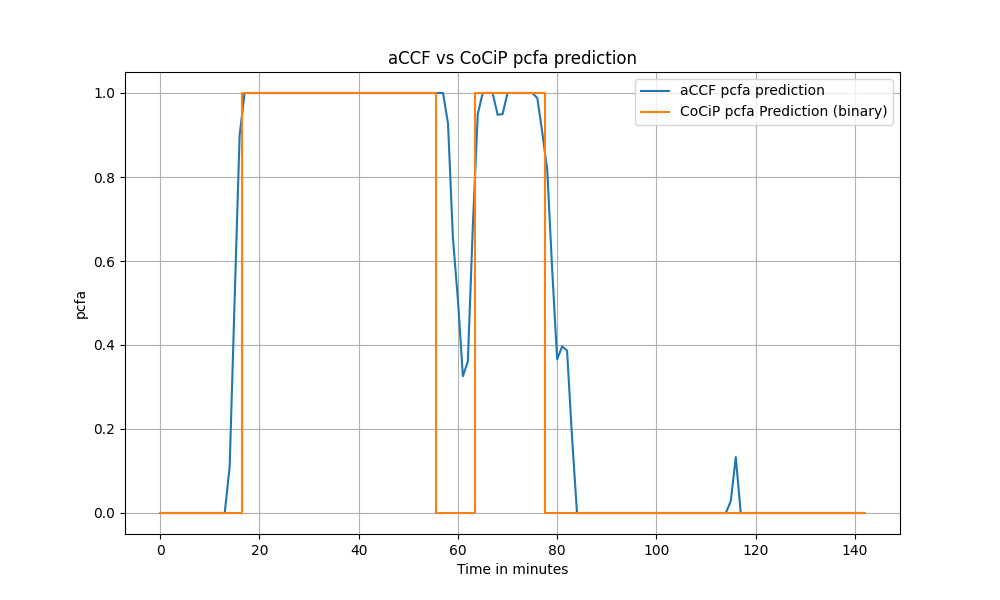
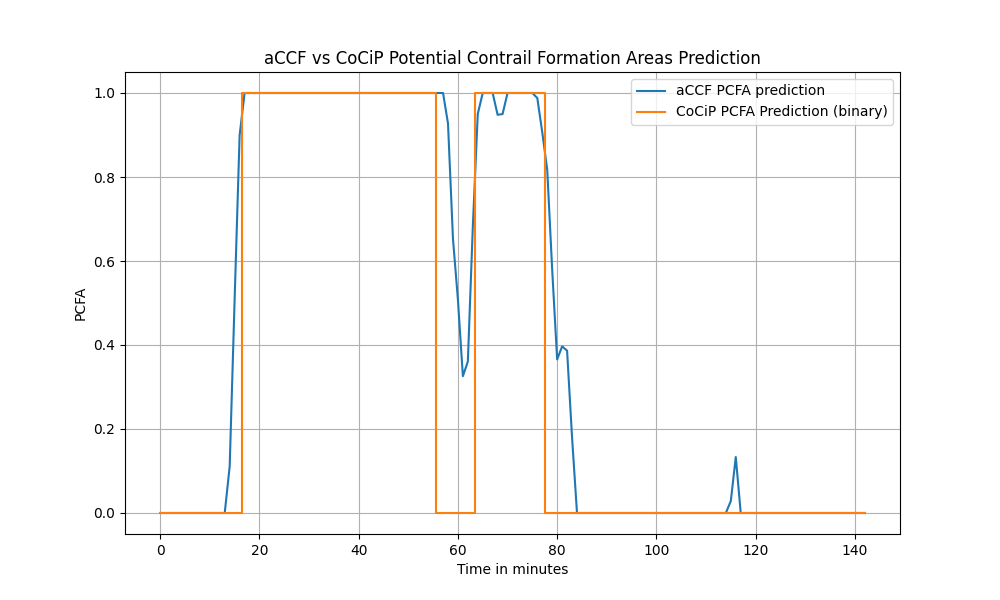
small changes

Changed region(s): [[0.248, 0.06, 0.899, 0.21], [0.062, 0.48, 0.093, 0.54]]

diff --git a/results_contrail_mean.py b/results_contrail_mean.py
@@ -156,9 +156,9 @@ plt.savefig('results_report/accf_vs_cocip/accf_vs_cocip.png', format='png')
 
 ### 2. Plot - aCCF where pcfa == 1.0
 plt.figure(figsize=(10, 6))
-plt.plot(df['index'], df['accf_pcfa1'], label='aCCF - pcfa == 1.0', color='tab:blue')
+plt.plot(df['index'], df['accf_pcfa1'], label='aCCF - PCFA == 1.0', color='tab:blue')
 plt.plot(df['index'], df['cocip_atr20'], label='CoCiP', color='tab:orange')
-plt.title('Contrail warming impact (P-ATR20) – aCCF (pcfa == 1.0)')
+plt.title('Contrail warming impact (P-ATR20) – aCCF (PCFA == 1.0)')
 plt.xlabel('Time in minutes')
 plt.ylabel('P-ATR20 (K)')
 plt.legend()
@@ -170,9 +170,9 @@ plt.savefig('results_report/accf_vs_cocip/accf_vs_cocip_pcfa1.png', format='png'
 
 ### 3. Plot - aCCF where pcfa > 0.8
 plt.figure(figsize=(10, 6))
-plt.plot(df['index'], df['accf_pcfa08'], label='aCCF - pcfa > 0.8', color='tab:blue')
+plt.plot(df['index'], df['accf_pcfa08'], label='aCCF - PCFA > 0.8', color='tab:blue')
 plt.plot(df['index'], df['cocip_atr20'], label='CoCiP', color='tab:orange')
-plt.title('Contrail warming impact (P-ATR20) – aCCF (pcfa > 0.8)')
+plt.title('Contrail warming impact (P-ATR20) – aCCF (PCFA > 0.8)')
 plt.xlabel('Time in minutes')
 plt.ylabel('P-ATR20 (K)')
 plt.legend()
@@ -197,15 +197,15 @@ df['cocip_binary'] = df['cocip_contrail_age'].apply(lambda x: 1 if pd.notnull(x)
 plt.figure(figsize=(10, 6))
 
 # Plot pcfa values
-plt.plot(time_index, pcfa_values, label='aCCF pcfa prediction', color='tab:blue')
+plt.plot(time_index, pcfa_values, label='aCCF PCFA prediction', color='tab:blue')
 
 # Plot cocip binary values (as a step plot to emphasize the 0/1 nature)
-plt.step(time_index, df['cocip_binary'], label='CoCiP pcfa Prediction (binary)', color='tab:orange', where='mid')
+plt.step(time_index, df['cocip_binary'], label='CoCiP PCFA Prediction (binary)', color='tab:orange', where='mid')
 
 # Customize plot
-plt.title('aCCF vs CoCiP pcfa prediction')
+plt.title('aCCF vs CoCiP Potential Contrail Formation Areas Prediction')
 plt.xlabel('Time in minutes')
-plt.ylabel('pcfa')
+plt.ylabel('PCFA')
 plt.legend()
 plt.grid(True)
 

diff --git a/results_climate_tables.py b/results_climate_tables.py
@@ -381,7 +381,7 @@ plot_rasd_barplot(contrail_yes_accf_changes, "contrail_yes_accf", metrics=['nox_
 plot_rasd_barplot(contrail_yes_accf_changes, "contrail_yes_accf", metrics=['nox_impact_sum_relative_change', 'contrail_atr20_accf_cocip_pcfa_sum_relative_change','climate_non_co2_accf_cocip_pcfa_relative_change'])
 plot_rasd_barplot(contrail_yes_accf_changes, "contrail_yes_accf", metrics=['climate_non_co2_accf_cocip_pcfa_relative_change', 'co2_impact_cons_sum_relative_change','co2_impact_opti_sum_relative_change'])
 plot_rasd_barplot(contrail_yes_accf_changes, "contrail_yes_accf", metrics=['climate_total_cons_accf_cocip_pcfa_relative_change', 'climate_total_opti_accf_cocip_pcfa_relative_change'])
-
+plot_rasd_barplot(contrail_yes_accf_changes, "contrail_yes_accf", metrics=['contrail_atr20_accf_cocip_pcfa_sum_relative_change'])
 
 
 def plot_rad_barplot(df, df_name, metrics=['climate_total_cons_sum_relative_change']):
@@ -530,7 +530,7 @@ plot_rad_barplot(contrail_yes_accf_changes, "contrail_yes_accf", metrics=['nox_i
 plot_rad_barplot(contrail_yes_accf_changes, "contrail_yes_accf", metrics=['nox_impact_sum_relative_change', 'contrail_atr20_accf_cocip_pcfa_sum_relative_change','climate_non_co2_accf_cocip_pcfa_relative_change'])
 plot_rad_barplot(contrail_yes_accf_changes, "contrail_yes_accf", metrics=['climate_non_co2_accf_cocip_pcfa_relative_change', 'co2_impact_cons_sum_relative_change','co2_impact_opti_sum_relative_change'])
 plot_rad_barplot(contrail_yes_accf_changes, "contrail_yes_accf", metrics=['climate_total_cons_accf_cocip_pcfa_relative_change', 'climate_total_opti_accf_cocip_pcfa_relative_change'])
-
+plot_rad_barplot(contrail_yes_accf_changes, "contrail_yes_accf", metrics=['contrail_atr20_accf_cocip_pcfa_sum_relative_change'])
 # plot_rad_barplot(
 #     contrail_yes_changes[
 #         (contrail_yes_changes['season'] == '2023-05-05') &

diff --git a/results_read_out.py b/results_read_out.py
@@ -400,6 +400,29 @@ print(accf_totals_by_engine_saf[['engine',  'accf_sac_pcfa_sum', 'accf_sac_issr_
 results_df.to_csv('results_main_simulations.csv', index=False)
 print(f"Number of DataFrames where 'cocip_atr20' exists but sum is zero: {cocip_atr20_zero_count}")
 
+gtf1990_2000_no_contrail_other_has_count = 0
+
+# Filter for all GTF1990 and GTF2000 rows with zero contrail
+gtf_baseline_rows = results_df[
+    (results_df['engine'].isin(['GTF1990', 'GTF2000'])) &
+    (results_df['contrail_atr20_cocip_sum'] == 0)
+]
+
+for idx, row in gtf_baseline_rows.iterrows():
+    # Get all other engines for same flight scenario
+    matching_rows = results_df[
+        (results_df['trajectory'] == row['trajectory']) &
+        (results_df['season'] == row['season']) &
+        (results_df['diurnal'] == row['diurnal']) &
+        (~results_df['engine'].isin(['GTF1990', 'GTF2000'])) &
+        (results_df['contrail_atr20_cocip_sum'] != 0)
+    ]
+
+    # Each matching row is a case where another engine forms a contrail
+    gtf1990_2000_no_contrail_other_has_count += len(matching_rows)
+
+print(f"GTF1990/2000 had zero contrail while other engines had non-zero contrails {gtf1990_2000_no_contrail_other_has_count} times.")
+
 #
 #
 # climate_columns = [
